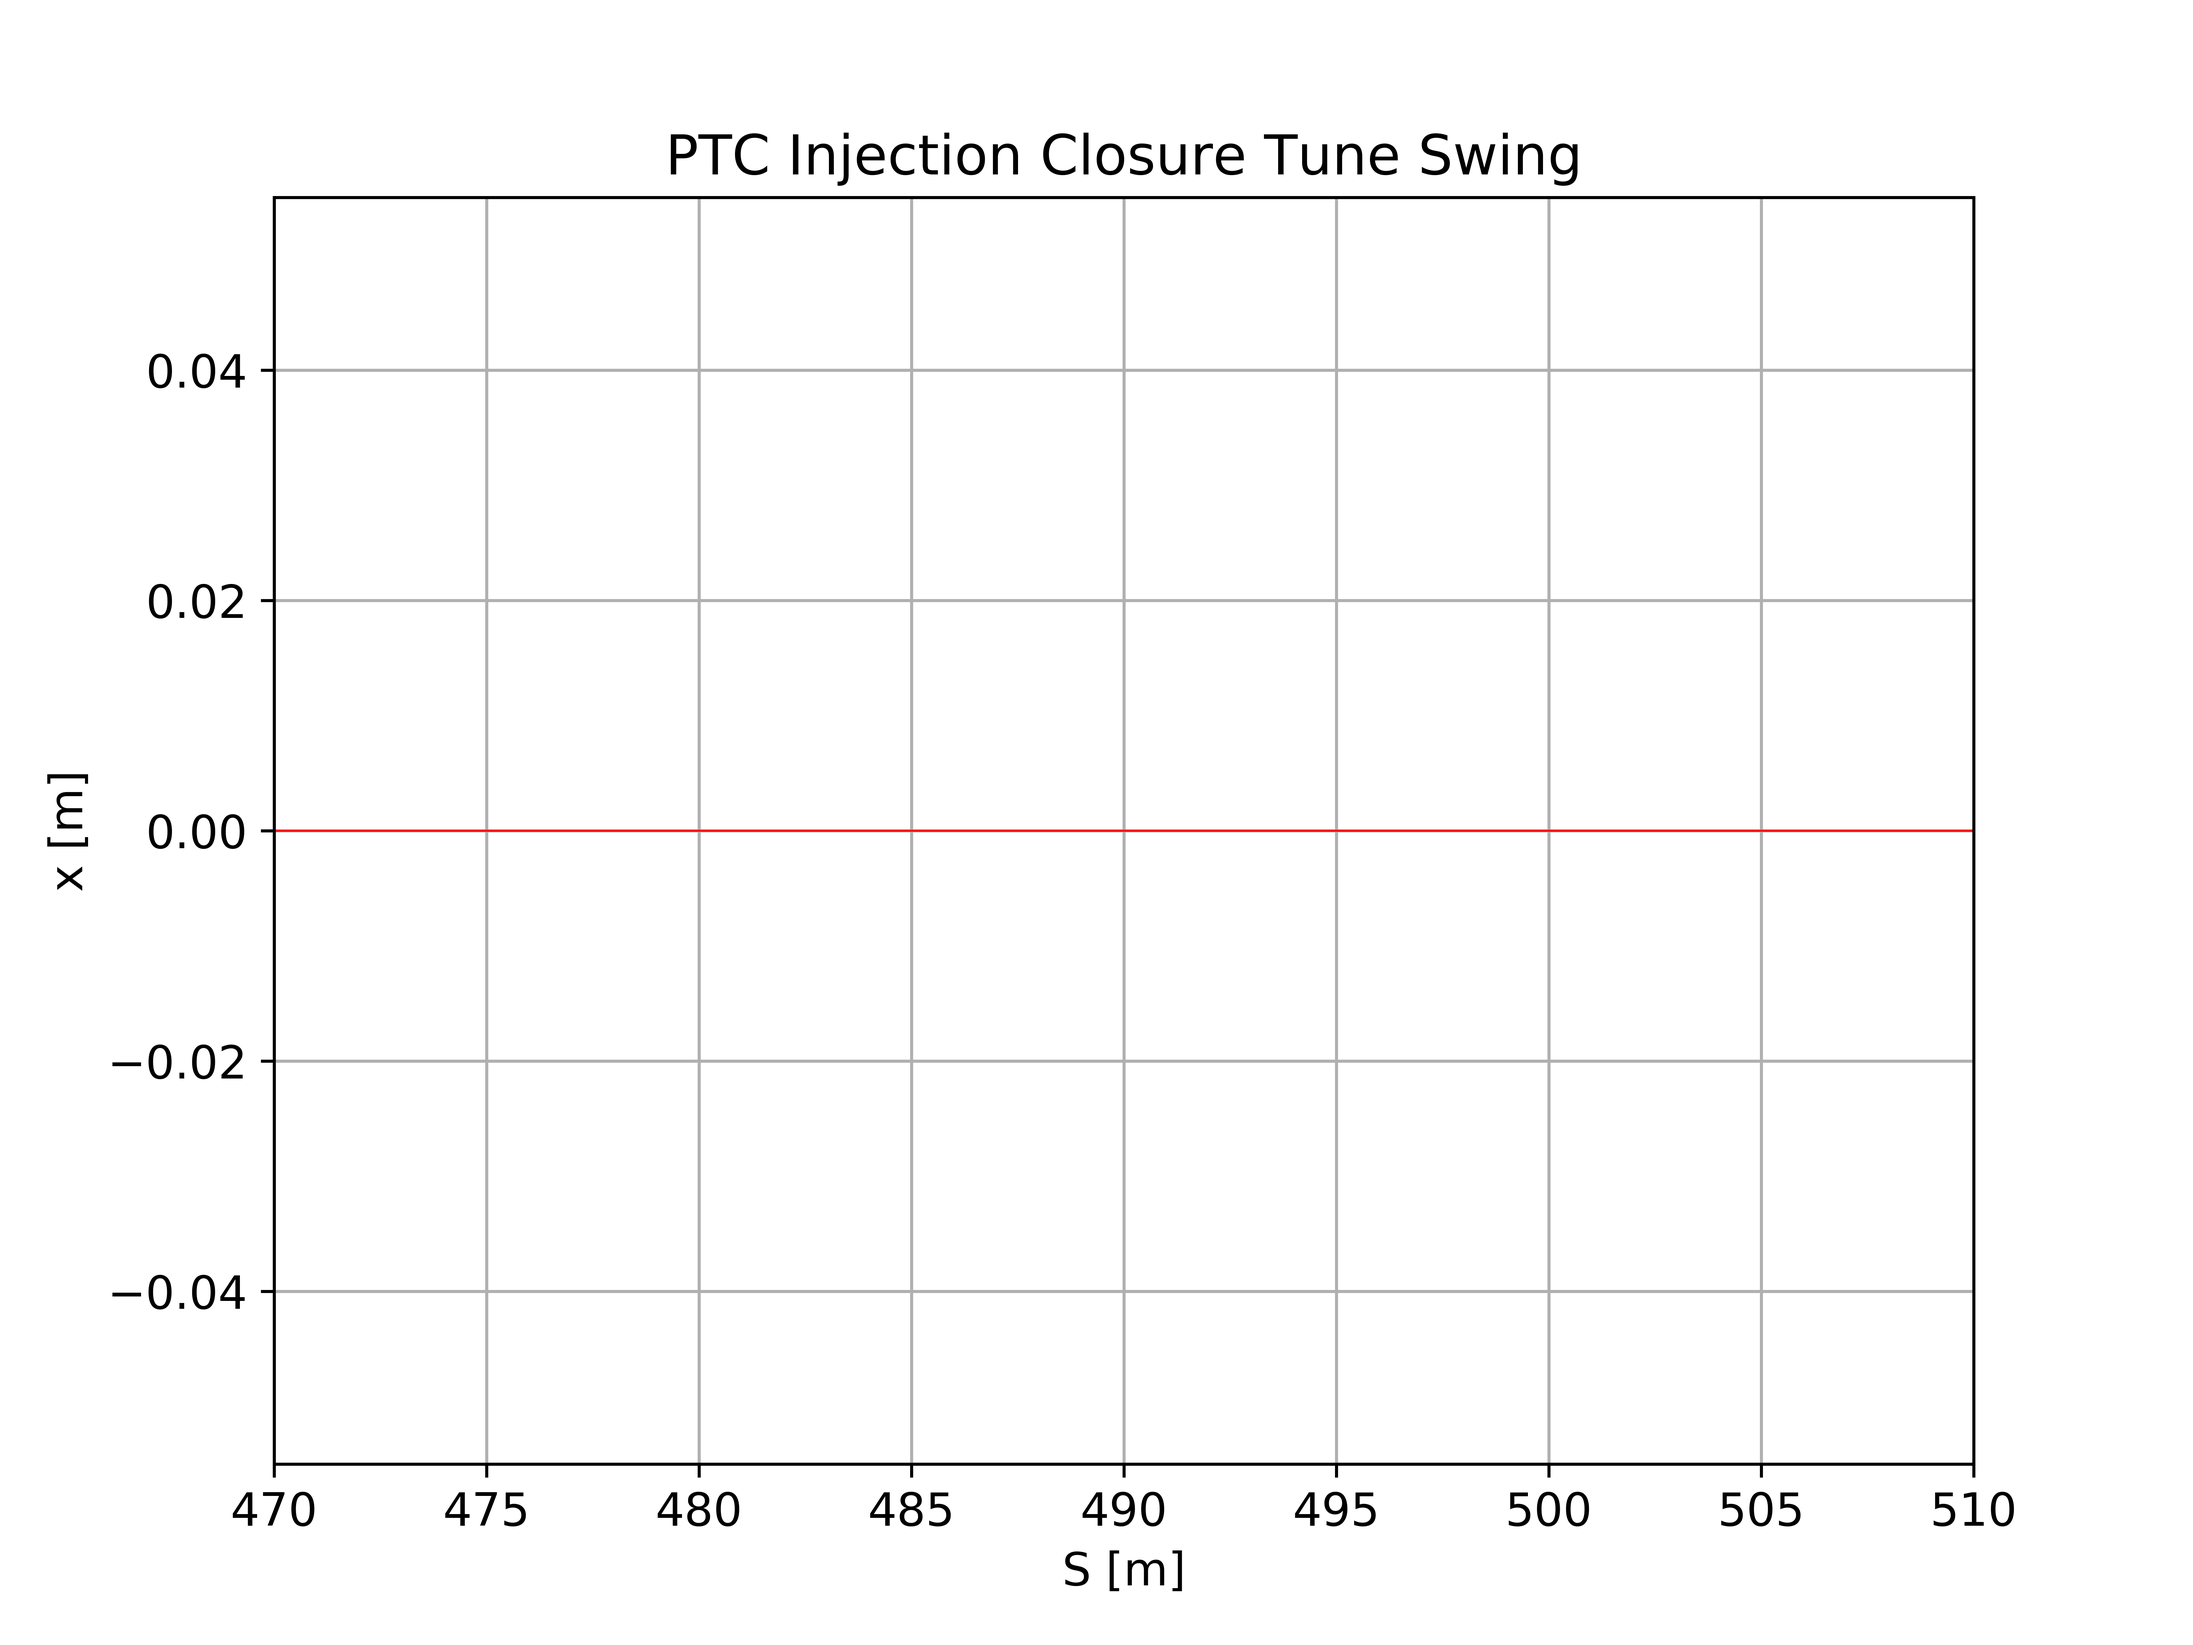
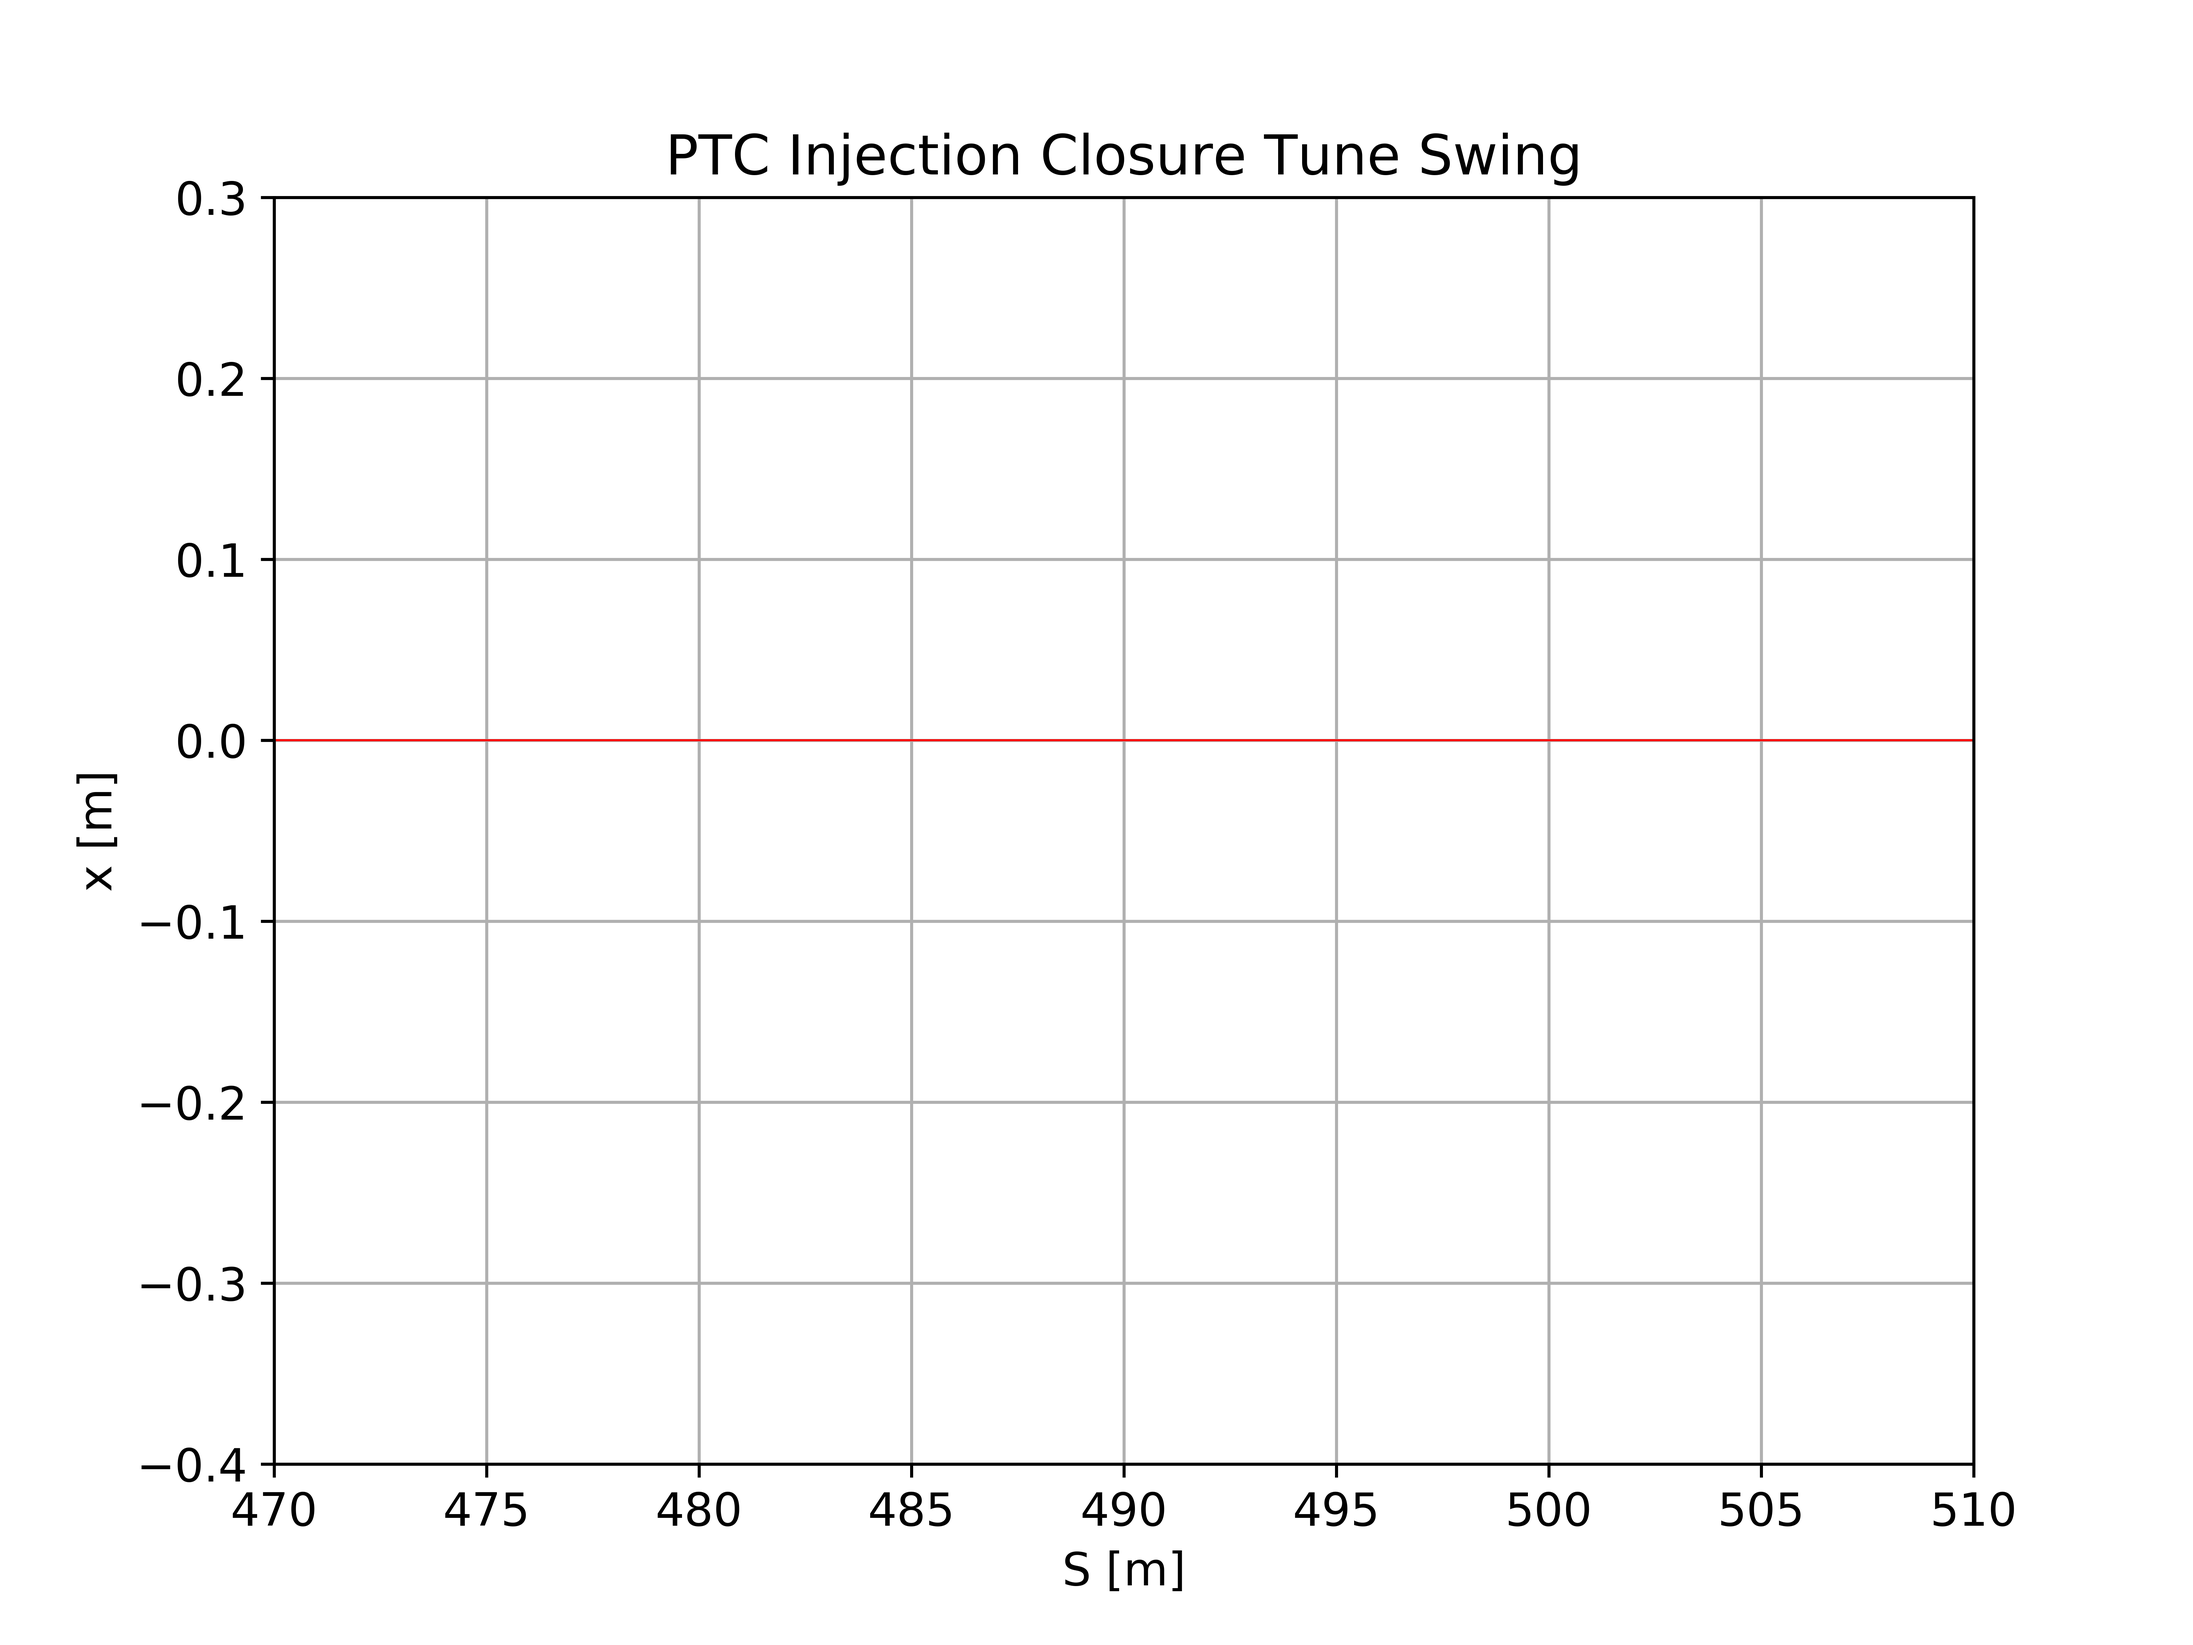
From_Scratch: 04: updated plotting scripts and plots

diff --git a/From_Scratch/04_PyORBIT_Sims_no_Sextupole/00_Split_HKICKER_With_MULTIPOLE/Plot_PTC_cf_MADX_Closed_Orbit.py b/From_Scratch/04_PyORBIT_Sims_no_Sextupole/00_Split_HKICKER_With_MULTIPOLE/Plot_PTC_cf_MADX_Closed_Orbit.py
@@ -129,7 +129,7 @@ case = '00_Split_HKICKER_with_MULTIPOLE'
 print '\n\tStart Plotting\n'
 
 fig, ax1 = plt.subplots();
-plt.title("PTC vs MADX Injection Closure Tune Swing");
+plt.title("PTC vs MADX Injection Closure Closed Orbit");
 
 # colormap 
 colors = cm.rainbow(np.linspace(0, 1, len(ptc_iterators)))
@@ -160,7 +160,7 @@ print '\n\tPlot 1 done\n'
 
 
 fig, ax1 = plt.subplots();
-plt.title("PTC Injection Closure Tune Swing");
+plt.title("PTC vs MADX Injection Closure Closed Orbit");
 
 # colormap 
 colors = cm.rainbow(np.linspace(0, 1, len(ptc_iterators)))
@@ -183,7 +183,7 @@ for turn in sorted(ptc_iterators):
 
 c_it = int(0)
 for turn in sorted(madx_iterators):
-	print 'Plotting PTC turn ', turn
+	print 'Plotting MADX turn ', turn
 	plt.plot(madx_data[turn][0], madx_data[turn][1], color=colors[c_it])
 	# For each turn plot s,x in a new colour
 	c_it += 1
@@ -196,12 +196,13 @@ print '\n\tPlot 2 done\n'
 
 
 fig, ax1 = plt.subplots();
-plt.title("MADX Injection Closure Tune Swing");
+plt.title("MADX Injection Closure Closed Orbit");
 
 # colormap 
 colors = cm.rainbow(np.linspace(0, 1, len(ptc_iterators)))
 
 ax1.set_xlim(470.0, 510.0)
+ax1.set_ylim(-0.04, 0.03)
 
 ax1.set_xlabel("S [m]");
 ax1.set_ylabel("x [m]");
@@ -215,19 +216,20 @@ for turn in sorted(madx_iterators):
 
 ax1.grid()
 
-savename = 'MADX_Closed_Orbit' + case + '.png'
+savename = 'MADX_Closed_Orbit' + case + '_zoom.png'
 plt.savefig(savename, dpi = 800);
 
 print '\n\tPlot 3 done\n'
 
 
 fig, ax1 = plt.subplots();
-plt.title("PTC Injection Closure Tune Swing");
+plt.title("PTC Injection Closure Closed Orbit");
 
 # colormap 
 colors = cm.rainbow(np.linspace(0, 1, len(ptc_iterators)))
 
 ax1.set_xlim(470.0, 510.0)
+ax1.set_ylim(-0.04, 0.03)
 
 ax1.set_xlabel("S [m]");
 ax1.set_ylabel("x [m]");

diff --git a/From_Scratch/04_PyORBIT_Sims_no_Sextupole/02_QUADRUPOLE_With_Errors/Plot_PTC_cf_MADX_Closed_Orbit.py b/From_Scratch/04_PyORBIT_Sims_no_Sextupole/02_QUADRUPOLE_With_Errors/Plot_PTC_cf_MADX_Closed_Orbit.py
@@ -129,7 +129,7 @@ case = '02_QUADRUPOLE'
 print '\n\tStart Plotting\n'
 
 fig, ax1 = plt.subplots();
-plt.title("PTC vs MADX Injection Closure Tune Swing");
+plt.title("PTC vs MADX Injection Closure Closed Orbit");
 
 # colormap 
 colors = cm.rainbow(np.linspace(0, 1, len(ptc_iterators)))
@@ -160,7 +160,7 @@ print '\n\tPlot 1 done\n'
 
 
 fig, ax1 = plt.subplots();
-plt.title("PTC vs MADX Injection Closure Tune Swing");
+plt.title("PTC vs MADX Injection Closure Closed Orbit");
 
 # colormap 
 colors = cm.rainbow(np.linspace(0, 1, len(ptc_iterators)))
@@ -196,12 +196,13 @@ print '\n\tPlot 2 done\n'
 
 
 fig, ax1 = plt.subplots();
-plt.title("MADX Injection Closure Tune Swing");
+plt.title("MADX Injection Closure Closed Orbit");
 
 # colormap 
 colors = cm.rainbow(np.linspace(0, 1, len(ptc_iterators)))
 
 ax1.set_xlim(470.0, 510.0)
+ax1.set_ylim(-0.04, 0.03)
 
 ax1.set_xlabel("S [m]");
 ax1.set_ylabel("x [m]");
@@ -215,19 +216,20 @@ for turn in sorted(madx_iterators):
 
 ax1.grid()
 
-savename = 'MADX_Closed_Orbit' + case + '.png'
+savename = 'MADX_Closed_Orbit' + case + '_zoom.png'
 plt.savefig(savename, dpi = 800);
 
 print '\n\tPlot 3 done\n'
 
 
 fig, ax1 = plt.subplots();
-plt.title("PTC Injection Closure Tune Swing");
+plt.title("PTC Injection Closure Closed Orbit");
 
 # colormap 
 colors = cm.rainbow(np.linspace(0, 1, len(ptc_iterators)))
 
 ax1.set_xlim(470.0, 510.0)
+ax1.set_ylim(-0.04, 0.03)
 
 ax1.set_xlabel("S [m]");
 ax1.set_ylabel("x [m]");

diff --git a/From_Scratch/04_PyORBIT_Sims_no_Sextupole/03_SBEND_With_Errors/Plot_PTC_cf_MADX_Closed_Orbit.py b/From_Scratch/04_PyORBIT_Sims_no_Sextupole/03_SBEND_With_Errors/Plot_PTC_cf_MADX_Closed_Orbit.py
@@ -129,7 +129,7 @@ case = '03_SBEND'
 print '\n\tStart Plotting\n'
 
 fig, ax1 = plt.subplots();
-plt.title("PTC vs MADX Injection Closure Tune Swing");
+plt.title("PTC vs MADX Injection Closure Closed Orbit");
 
 # colormap 
 colors = cm.rainbow(np.linspace(0, 1, len(ptc_iterators)))
@@ -160,7 +160,7 @@ print '\n\tPlot 1 done\n'
 
 
 fig, ax1 = plt.subplots();
-plt.title("PTC vs MADX Injection Closure Tune Swing");
+plt.title("PTC vs MADX Injection Closure Closed Orbit");
 
 # colormap 
 colors = cm.rainbow(np.linspace(0, 1, len(ptc_iterators)))
@@ -196,12 +196,13 @@ print '\n\tPlot 2 done\n'
 
 
 fig, ax1 = plt.subplots();
-plt.title("MADX Injection Closure Tune Swing");
+plt.title("MADX Injection Closure Closed Orbit");
 
 # colormap 
 colors = cm.rainbow(np.linspace(0, 1, len(ptc_iterators)))
 
 ax1.set_xlim(470.0, 510.0)
+ax1.set_ylim(-0.04, 0.03)
 
 ax1.set_xlabel("S [m]");
 ax1.set_ylabel("x [m]");
@@ -215,19 +216,20 @@ for turn in sorted(madx_iterators):
 
 ax1.grid()
 
-savename = 'MADX_Closed_Orbit' + case + '.png'
+savename = 'MADX_Closed_Orbit' + case + '_zoom.png'
 plt.savefig(savename, dpi = 800);
 
 print '\n\tPlot 3 done\n'
 
 
 fig, ax1 = plt.subplots();
-plt.title("PTC Injection Closure Tune Swing");
+plt.title("PTC Injection Closure Closed Orbit");
 
 # colormap 
 colors = cm.rainbow(np.linspace(0, 1, len(ptc_iterators)))
 
 ax1.set_xlim(470.0, 510.0)
+ax1.set_ylim(-0.04, 0.03)
 
 ax1.set_xlabel("S [m]");
 ax1.set_ylabel("x [m]");

diff --git a/From_Scratch/04_PyORBIT_Sims_no_Sextupole/01_MULTIPOLE/Plot_PTC_cf_MADX_Closed_Orbit.py b/From_Scratch/04_PyORBIT_Sims_no_Sextupole/01_MULTIPOLE/Plot_PTC_cf_MADX_Closed_Orbit.py
@@ -129,7 +129,7 @@ case = '01_MULTIPOLE'
 print '\n\tStart Plotting\n'
 
 fig, ax1 = plt.subplots();
-plt.title("PTC vs MADX Injection Closure Tune Swing");
+plt.title("PTC vs MADX Injection Closure Closed Orbit");
 
 # colormap 
 colors = cm.rainbow(np.linspace(0, 1, len(ptc_iterators)))
@@ -160,7 +160,7 @@ print '\n\tPlot 1 done\n'
 
 
 fig, ax1 = plt.subplots();
-plt.title("PTC Injection Closure Tune Swing");
+plt.title("PTC Injection Closure Closed Orbit");
 
 # colormap 
 colors = cm.rainbow(np.linspace(0, 1, len(ptc_iterators)))
@@ -196,12 +196,13 @@ print '\n\tPlot 2 done\n'
 
 
 fig, ax1 = plt.subplots();
-plt.title("MADX Injection Closure Tune Swing");
+plt.title("MADX Injection Closure Closed Orbit");
 
 # colormap 
 colors = cm.rainbow(np.linspace(0, 1, len(ptc_iterators)))
 
 ax1.set_xlim(470.0, 510.0)
+ax1.set_ylim(-0.04, 0.03)
 
 ax1.set_xlabel("S [m]");
 ax1.set_ylabel("x [m]");
@@ -215,19 +216,20 @@ for turn in sorted(madx_iterators):
 
 ax1.grid()
 
-savename = 'MADX_Closed_Orbit' + case + '.png'
+savename = 'MADX_Closed_Orbit' + case + '_zoom.png'
 plt.savefig(savename, dpi = 800);
 
 print '\n\tPlot 3 done\n'
 
 
 fig, ax1 = plt.subplots();
-plt.title("PTC Injection Closure Tune Swing");
+plt.title("PTC Injection Closure Closed Orbit");
 
 # colormap 
 colors = cm.rainbow(np.linspace(0, 1, len(ptc_iterators)))
 
 ax1.set_xlim(470.0, 510.0)
+ax1.set_ylim(-0.04, 0.03)
 
 ax1.set_xlabel("S [m]");
 ax1.set_ylabel("x [m]");

diff --git a/From_Scratch/04_PyORBIT_Sims_no_Sextupole/00_Split_HKICKER_With_MULTIPOLE/PyORBIT/Plot_PTC-PyORBIT_Closed_Orbit.py b/From_Scratch/04_PyORBIT_Sims_no_Sextupole/00_Split_HKICKER_With_MULTIPOLE/PyORBIT/Plot_PTC-PyORBIT_Closed_Orbit.py
@@ -84,12 +84,13 @@ case = '00_Split_HKICKER_with_MULTIPOLE'
 print '\n\tStart Plotting\n'
 
 fig, ax1 = plt.subplots();
-plt.title("PTC-PyORBIT Injection Closure Tune Swing");
+plt.title("PTC-PyORBIT Injection Closure Closed Orbit");
 
 # colormap 
 colors = cm.rainbow(np.linspace(0, 1, len(ptc_iterators)))
 
 # ~ ax1.set_xlim(470.0, 510.0)
+ax1.set_ylim(-0.04, 0.03)
 
 ax1.set_xlabel("S [m]");
 ax1.set_ylabel("x [m]");
@@ -109,12 +110,13 @@ plt.savefig(savename, dpi = 800);
 print '\n\tPlot 1 done\n'
 
 fig, ax1 = plt.subplots();
-plt.title("PTC-PyORBIT Injection Closure Tune Swing");
+plt.title("PTC-PyORBIT Injection Closure Closed Orbit");
 
 # colormap 
 colors = cm.rainbow(np.linspace(0, 1, len(ptc_iterators)))
 
 ax1.set_xlim(470.0, 510.0)
+ax1.set_ylim(-0.04, 0.03)
 
 ax1.set_xlabel("S [m]");
 ax1.set_ylabel("x [m]");

diff --git a/From_Scratch/04_PyORBIT_Sims_no_Sextupole/02_QUADRUPOLE_With_Errors/PyORBIT/Plot_PTC-PyORBIT_Closed_Orbit.py b/From_Scratch/04_PyORBIT_Sims_no_Sextupole/02_QUADRUPOLE_With_Errors/PyORBIT/Plot_PTC-PyORBIT_Closed_Orbit.py
@@ -84,12 +84,13 @@ case = '02_QUADRUPOLE'
 print '\n\tStart Plotting\n'
 
 fig, ax1 = plt.subplots();
-plt.title("PTC-PyORBIT Injection Closure Tune Swing");
+plt.title("PTC-PyORBIT Injection Closure Closed Orbit");
 
 # colormap 
 colors = cm.rainbow(np.linspace(0, 1, len(ptc_iterators)))
 
 # ~ ax1.set_xlim(470.0, 510.0)
+ax1.set_ylim(-0.04, 0.03)
 
 ax1.set_xlabel("S [m]");
 ax1.set_ylabel("x [m]");
@@ -109,12 +110,13 @@ plt.savefig(savename, dpi = 800);
 print '\n\tPlot 1 done\n'
 
 fig, ax1 = plt.subplots();
-plt.title("PTC-PyORBIT Injection Closure Tune Swing");
+plt.title("PTC-PyORBIT Injection Closure Closed Orbit");
 
 # colormap 
 colors = cm.rainbow(np.linspace(0, 1, len(ptc_iterators)))
 
 ax1.set_xlim(470.0, 510.0)
+ax1.set_ylim(-0.04, 0.03)
 
 ax1.set_xlabel("S [m]");
 ax1.set_ylabel("x [m]");

diff --git a/From_Scratch/04_PyORBIT_Sims_no_Sextupole/03_SBEND_With_Errors/PyORBIT/Plot_PTC-PyORBIT_Closed_Orbit.py b/From_Scratch/04_PyORBIT_Sims_no_Sextupole/03_SBEND_With_Errors/PyORBIT/Plot_PTC-PyORBIT_Closed_Orbit.py
@@ -84,12 +84,13 @@ case = '03_SBEND'
 print '\n\tStart Plotting\n'
 
 fig, ax1 = plt.subplots();
-plt.title("PTC-PyORBIT Injection Closure Tune Swing");
+plt.title("PTC-PyORBIT Injection Closure Closed Orbit");
 
 # colormap 
 colors = cm.rainbow(np.linspace(0, 1, len(ptc_iterators)))
 
 # ~ ax1.set_xlim(470.0, 510.0)
+ax1.set_ylim(-0.04, 0.03)
 
 ax1.set_xlabel("S [m]");
 ax1.set_ylabel("x [m]");
@@ -109,12 +110,13 @@ plt.savefig(savename, dpi = 800);
 print '\n\tPlot 1 done\n'
 
 fig, ax1 = plt.subplots();
-plt.title("PTC-PyORBIT Injection Closure Tune Swing");
+plt.title("PTC-PyORBIT Injection Closure Closed Orbit");
 
 # colormap 
 colors = cm.rainbow(np.linspace(0, 1, len(ptc_iterators)))
 
 ax1.set_xlim(470.0, 510.0)
+ax1.set_ylim(-0.04, 0.03)
 
 ax1.set_xlabel("S [m]");
 ax1.set_ylabel("x [m]");

diff --git a/From_Scratch/04_PyORBIT_Sims_no_Sextupole/01_MULTIPOLE/PyORBIT/Plot_PTC-PyORBIT_Closed_Orbit.py b/From_Scratch/04_PyORBIT_Sims_no_Sextupole/01_MULTIPOLE/PyORBIT/Plot_PTC-PyORBIT_Closed_Orbit.py
@@ -84,10 +84,11 @@ case = '01_MULTIPOLE'
 print '\n\tStart Plotting\n'
 
 fig, ax1 = plt.subplots();
-plt.title("PTC-PyORBIT Injection Closure Tune Swing");
+plt.title("PTC-PyORBIT Injection Closure Closed Orbit");
 
 # colormap 
 colors = cm.rainbow(np.linspace(0, 1, len(ptc_iterators)))
+ax1.set_ylim(-0.04, 0.03)
 
 # ~ ax1.set_xlim(470.0, 510.0)
 
@@ -109,12 +110,13 @@ plt.savefig(savename, dpi = 800);
 print '\n\tPlot 1 done\n'
 
 fig, ax1 = plt.subplots();
-plt.title("PTC-PyORBIT Injection Closure Tune Swing");
+plt.title("PTC-PyORBIT Injection Closure Closed Orbit");
 
 # colormap 
 colors = cm.rainbow(np.linspace(0, 1, len(ptc_iterators)))
 
 ax1.set_xlim(470.0, 510.0)
+ax1.set_ylim(-0.04, 0.03)
 
 ax1.set_xlabel("S [m]");
 ax1.set_ylabel("x [m]");
